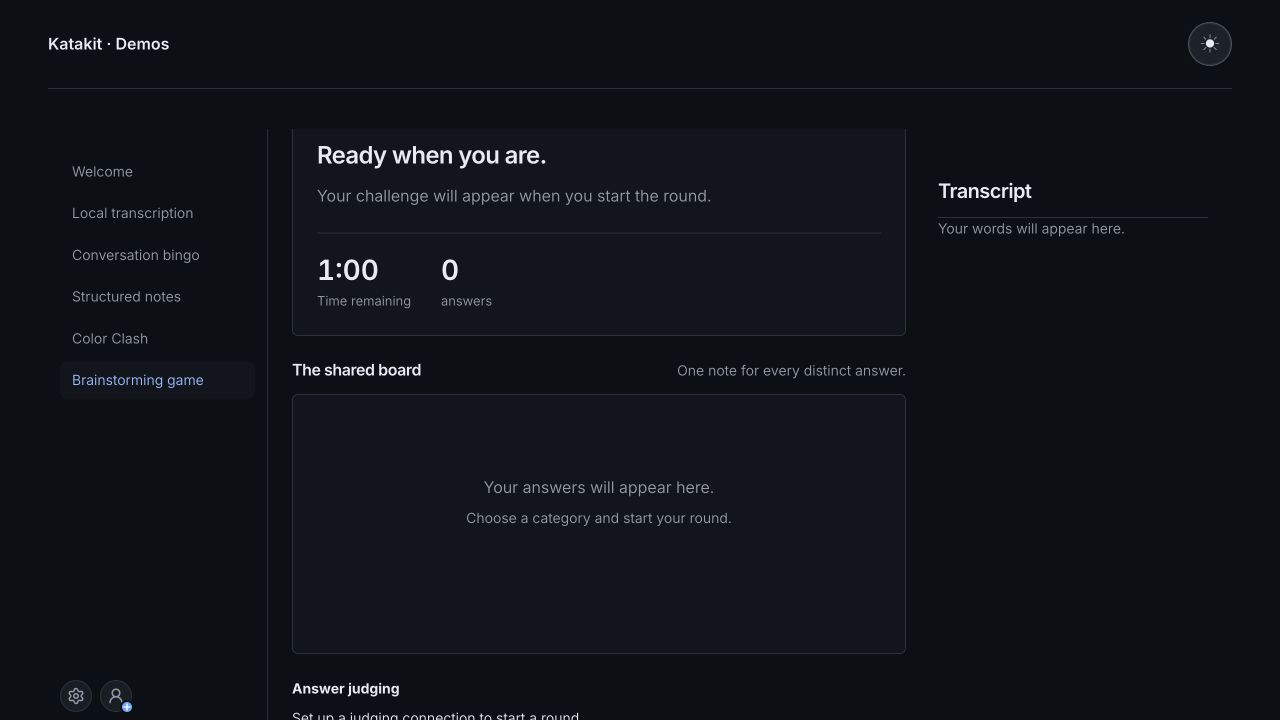
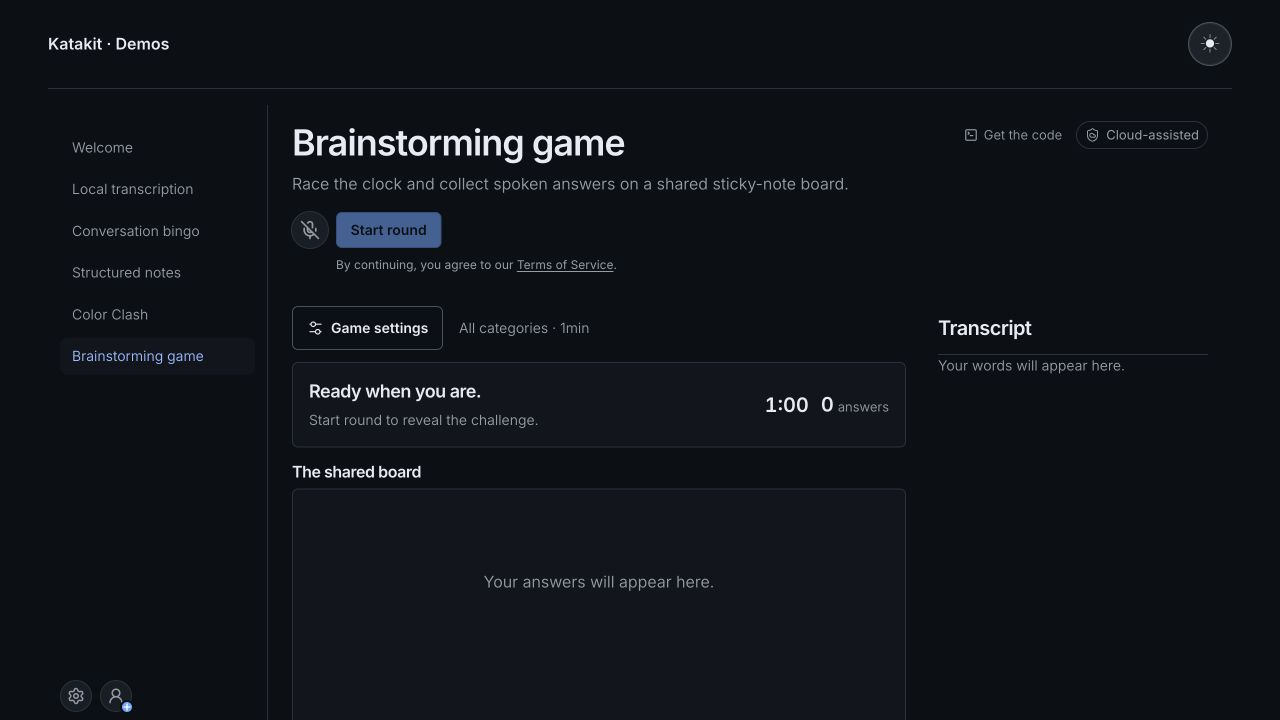
Compact the brainstorming challenge card and board hints

diff --git a/examples/demos/brainstorm-react/src/BrainstormDemo.tsx b/examples/demos/brainstorm-react/src/BrainstormDemo.tsx
@@ -1,6 +1,6 @@
 import { useEffect, useRef, useState, type ReactNode } from 'react';
 import { bind, Subscribe } from '@react-rxjs/core';
-import { challengeCategories, drawChallenge, findChallenge } from './challenges';
+import { drawChallenge, findChallenge } from './challenges';
 import type { BrainstormConnection } from './brainstormModel';
 import type { createBrainstormDemo } from './createBrainstormDemo';
 import { Button } from './controls';
@@ -162,15 +162,10 @@ const BrainstormView = ({
   );
   const modelControls = (
     <section className="brainstorm-connection" aria-label="Answer judging">
-      <strong>Answer judging</strong>
-      <p role="status">
-        {state.connected
-          ? 'Judge connected · transcript text is sent for judging.'
-          : connect
-            ? 'Starting a round connects the judge before revealing the challenge.'
-            : 'Set up a judging connection to start a round.'}
-      </p>
-      {!connect && connectionHelp}
+      {state.connected && !failure && <p role="status">Judge connected.</p>}
+      {!connect &&
+        !state.connected &&
+        (connectionHelp ?? <p>Set up a judging connection to start a round.</p>)}
       {failure && <p role="alert">{failure.message}</p>}
       {state.failure && !state.failure.policy.terminal && !state.failure.policy.restart && (
         <Button onClick={runtime.retry}>Retry judging</Button>
@@ -206,21 +201,10 @@ const BrainstormView = ({
           />
 
           <section className="site-notice brainstorm-challenge" aria-labelledby="brainstorm-prompt">
-            <div className="brainstorm-challenge-heading">
-              <span>{revealed ? 'Your challenge' : 'Next round'}</span>
-              <span>
-                {revealed &&
-                  challengeCategories.find(category =>
-                    category.challenges.some(item => item.id === challenge.id)
-                  )?.title}
-              </span>
+            <div className="brainstorm-challenge-copy">
+              <h2 id="brainstorm-prompt">{revealed ? challenge.prompt : 'Ready when you are.'}</h2>
+              <p>{revealed ? challenge.judgingRule : 'Start round to reveal the challenge.'}</p>
             </div>
-            <h2 id="brainstorm-prompt">{revealed ? challenge.prompt : 'Ready when you are.'}</h2>
-            <p>
-              {revealed
-                ? challenge.judgingRule
-                : 'Your challenge will appear when you start the round.'}
-            </p>
             <div className="brainstorm-round-bar">
               <div
                 className="brainstorm-clock"
@@ -234,20 +218,17 @@ const BrainstormView = ({
                 >
                   {state.remaining === null ? 'Unlimited' : timeLabel(state.remaining)}
                 </output>
-                <span>
-                  {state.remaining === null
-                    ? 'No time limit'
-                    : state.phase === 'finished'
-                      ? 'Round complete'
-                      : 'Time remaining'}
-                </span>
               </div>
               <div className="brainstorm-score">
                 <strong>{state.notes.length}</strong>
                 <span>{state.notes.length === 1 ? 'answer' : 'answers'}</span>
               </div>
-              {renderRoundControls ? renderRoundControls(roundControls) : roundControls}
             </div>
+            {renderRoundControls ? (
+              renderRoundControls(roundControls)
+            ) : (
+              <div className="brainstorm-round-controls">{roundControls}</div>
+            )}
           </section>
 
           <div className="brainstorm-board-heading">
@@ -260,26 +241,13 @@ const BrainstormView = ({
                   : state.phase === 'finished'
                     ? `Round complete. ${state.notes.length} ${state.notes.length === 1 ? 'answer' : 'answers'} collected.`
                     : state.feedback ||
-                      (state.phase === 'running'
-                        ? 'Listening for your ideas…'
-                        : 'One note for every distinct answer.')}
+                      (state.phase === 'running' ? 'Listening for your ideas…' : '')}
             </p>
           </div>
           <div className="brainstorm-board" aria-label="Collected answers">
             {!state.notes.length && (
               <div className="brainstorm-empty">
-                <p>
-                  {state.phase === 'running'
-                    ? 'Go on. What comes to mind?'
-                    : state.phase === 'finished'
-                      ? 'A fresh round is a fresh start.'
-                      : 'Your answers will appear here.'}
-                </p>
-                <span>
-                  {state.phase === 'idle'
-                    ? 'Choose a category and start your round.'
-                    : 'Qualifying answers will appear here as sticky notes.'}
-                </span>
+                <p>Your answers will appear here.</p>
               </div>
             )}
             <ol className="brainstorm-notes" aria-live="polite" aria-relevant="additions removals">

diff --git a/examples/demos/brainstorm-react/src/style.css b/examples/demos/brainstorm-react/src/style.css
@@ -51,7 +51,7 @@
   align-items: center;
   flex-wrap: wrap;
   gap: 8px 16px;
-  margin-block: 16px 24px;
+  margin-block: 8px 12px;
 }
 .brainstorm-settings-bar > span {
   color: var(--color-muted, #60646c);
@@ -96,24 +96,25 @@
   margin-top: 24px;
 }
 .brainstorm-challenge {
-  padding: 24px;
+  display: grid;
+  grid-template-columns: minmax(0, 1fr) auto;
+  align-items: center;
+  gap: 12px 16px;
+  padding: 16px;
 }
-.brainstorm-challenge-heading {
-  display: flex;
-  justify-content: space-between;
-  gap: 16px;
-  color: var(--color-muted, #60646c);
-  font-size: 0.875rem;
+.brainstorm-challenge-copy {
+  min-width: 0;
 }
 .brainstorm-game .brainstorm-challenge h2 {
   color: var(--color-ink, inherit);
-  font-size: 1.5rem;
-  line-height: 1.3;
-  margin: 16px 0 12px;
+  font-size: 1.125rem;
+  line-height: 1.35;
+  margin: 0 0 6px;
 }
-.brainstorm-challenge > p {
+.brainstorm-challenge-copy p {
   color: var(--color-muted, #60646c);
-  line-height: 1.6;
+  font-size: 0.875rem;
+  line-height: 1.5;
   margin: 0;
   max-width: 70ch;
 }
@@ -121,31 +122,31 @@
   display: flex;
   align-items: center;
   flex-wrap: wrap;
-  gap: 24px;
-  margin-top: 24px;
-  padding-top: 20px;
-  border-top: 1px solid var(--color-rule, #e0e1e6);
+  gap: 12px;
+}
+.brainstorm-round-controls {
+  grid-column: 1 / -1;
+  display: flex;
+  align-items: center;
+  flex-wrap: wrap;
+  gap: 8px 12px;
 }
 .brainstorm-clock,
 .brainstorm-score {
   display: flex;
-  flex-direction: column;
+  align-items: baseline;
   gap: 4px;
 }
 .brainstorm-clock output,
 .brainstorm-score strong {
-  font-size: 1.75rem;
+  font-size: 1.25rem;
   font-weight: 600;
   line-height: 1.2;
   font-variant-numeric: tabular-nums;
 }
-.brainstorm-clock span,
 .brainstorm-score span {
   font-size: 0.8125rem;
   color: var(--color-muted, #60646c);
-}
-.brainstorm-clock {
-  min-width: 100px;
 }
 .brainstorm-clock[data-urgent='true'] output {
   color: var(--color-error, #d13415);
@@ -164,7 +165,7 @@
   justify-content: space-between;
   gap: 8px 16px;
   align-items: baseline;
-  margin: 24px 0 12px;
+  margin: 16px 0 8px;
 }
 .brainstorm-game .brainstorm-board-heading h2 {
   font-size: 1rem;
@@ -177,7 +178,7 @@
   color: var(--color-muted, #60646c);
 }
 .brainstorm-board {
-  min-height: 260px;
+  min-height: max(260px, calc(100dvh - 28rem));
   border: 1px solid var(--color-rule, #e0e1e6);
   border-radius: var(--radius-input, 6px);
   padding: 20px;
@@ -188,15 +189,11 @@
   flex-direction: column;
   align-items: center;
   text-align: center;
-  gap: 8px;
   padding: 60px 8px;
   color: var(--color-muted, #60646c);
 }
 .brainstorm-empty p {
   margin: 0;
-}
-.brainstorm-empty > span {
-  font-size: 0.875rem;
 }
 .brainstorm-notes {
   list-style: none;
@@ -305,7 +302,10 @@
 }
 .brainstorm-connection {
   font-size: 0.875rem;
-  margin-top: 24px;
+  margin-top: 12px;
+}
+.brainstorm-connection:empty {
+  display: none;
 }
 .brainstorm-connection p {
   margin: 8px 0;
@@ -338,6 +338,14 @@
     height: 20rem;
     padding-top: 0;
   }
+  .brainstorm-board {
+    min-height: 260px;
+  }
+}
+@container (max-width: 480px) {
+  .brainstorm-challenge {
+    grid-template-columns: minmax(0, 1fr);
+  }
 }
 @media (max-width: 600px) {
   .brainstorm-header {
@@ -349,9 +357,6 @@
   .brainstorm-challenge,
   .brainstorm-board {
     padding: 16px;
-  }
-  .brainstorm-round-bar {
-    gap: 16px;
   }
   .brainstorm-notes {
     grid-template-columns: repeat(2, minmax(0, 1fr));

diff --git a/examples/demos/brainstorm-react/README.md b/examples/demos/brainstorm-react/README.md
@@ -12,6 +12,9 @@ round starts. **Next round** draws a different challenge and prepares capture be
 Remove mistaken answers with the button on each note. Rounds use one shared microphone and
 require a judging connection. A browser reload starts a fresh game.
 
+The prompt and judging rule share a compact card with the remaining time and answer count.
+The board has one empty-state hint and expands on taller desktop screens to leave more room for notes.
+
 The Transcript panel sits to the right of the game, with numbered entries newest first and muted
 interim speech above them. It scrolls independently and stacks below the game on narrow screens.
 It shows the round's original spoken input, including words that do not qualify as
